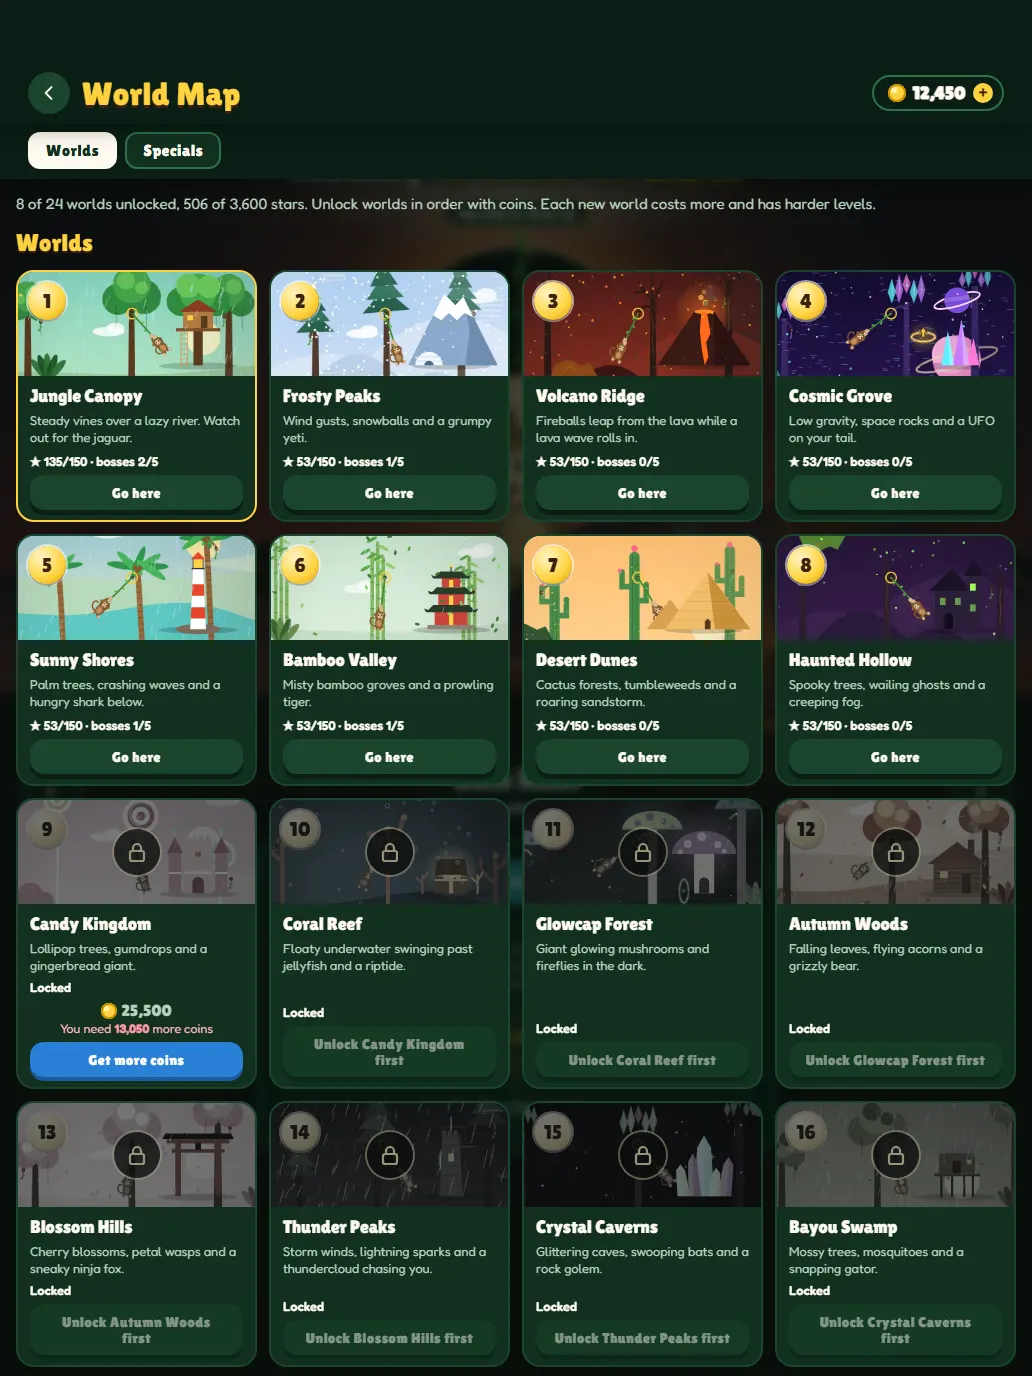
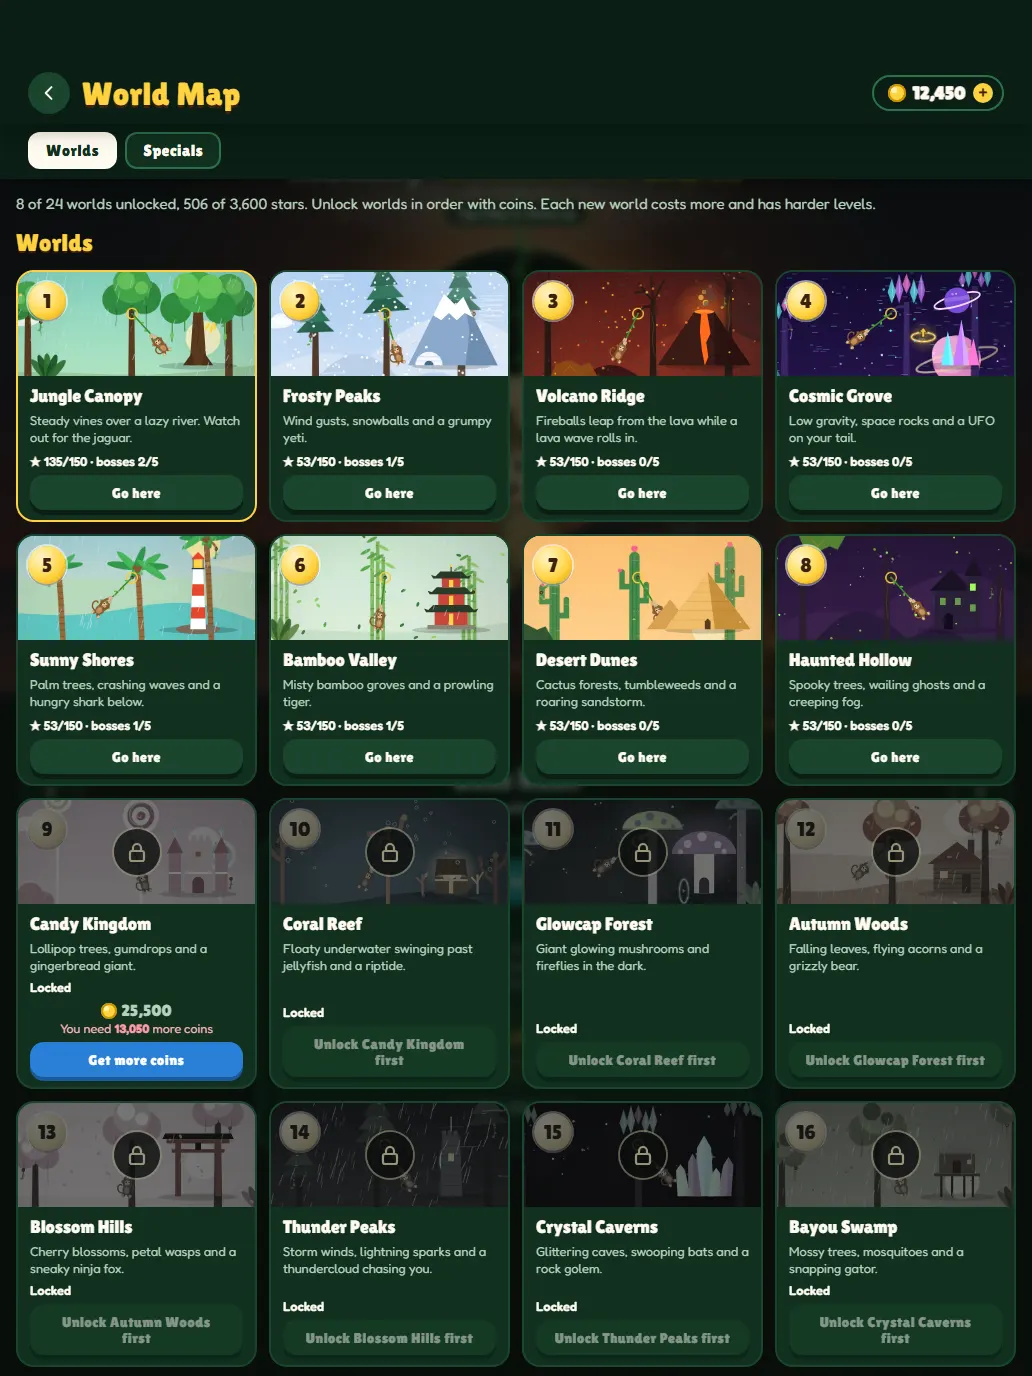
World Map screenshots without the treehouse (game 464)

diff --git a/ru/index.html b/ru/index.html
@@ -126,7 +126,7 @@ if(c==='yes')load();})();</script>
       </div>
 
       <div class="feature reveal" style="--glow:rgba(95,242,255,.28)">
-        <div class="phone-wrap"><div class="tablet tilt-r"><img src="/img/06-worlds-ipad.webp?v=6" alt="24 мира" loading="lazy" width="1032" height="1376"></div></div>
+        <div class="phone-wrap"><div class="tablet tilt-r"><img src="/img/06-worlds-ipad.webp?v=7" alt="24 мира" loading="lazy" width="1032" height="1376"></div></div>
         <div>
           <span class="tag c">24 мира</span>
           <h3>От джунглей до <em>открытого космоса</em></h3>

diff --git a/ja/index.html b/ja/index.html
@@ -126,7 +126,7 @@ if(c==='yes')load();})();</script>
       </div>
 
       <div class="feature reveal" style="--glow:rgba(95,242,255,.28)">
-        <div class="phone-wrap"><div class="tablet tilt-r"><img src="/img/06-worlds-ipad.webp?v=6" alt="24 の世界" loading="lazy" width="1032" height="1376"></div></div>
+        <div class="phone-wrap"><div class="tablet tilt-r"><img src="/img/06-worlds-ipad.webp?v=7" alt="24 の世界" loading="lazy" width="1032" height="1376"></div></div>
         <div>
           <span class="tag c">24 の世界</span>
           <h3>ジャングルから<em>宇宙</em>まで</h3>

diff --git a/sv/index.html b/sv/index.html
@@ -125,7 +125,7 @@ if(c==='yes')load();})();</script>
       </div>
 
       <div class="feature reveal" style="--glow:rgba(95,242,255,.28)">
-        <div class="phone-wrap"><div class="tablet tilt-r"><img src="/img/06-worlds-ipad.webp?v=6" alt="24 världar" loading="lazy" width="1032" height="1376"></div></div>
+        <div class="phone-wrap"><div class="tablet tilt-r"><img src="/img/06-worlds-ipad.webp?v=7" alt="24 världar" loading="lazy" width="1032" height="1376"></div></div>
         <div>
           <span class="tag c">24 världar</span>
           <h3>Från djungeln till <em>yttre rymden</em></h3>

diff --git a/nl/index.html b/nl/index.html
@@ -125,7 +125,7 @@ if(c==='yes')load();})();</script>
       </div>
 
       <div class="feature reveal" style="--glow:rgba(95,242,255,.28)">
-        <div class="phone-wrap"><div class="tablet tilt-r"><img src="/img/06-worlds-ipad.webp?v=6" alt="24 werelden" loading="lazy" width="1032" height="1376"></div></div>
+        <div class="phone-wrap"><div class="tablet tilt-r"><img src="/img/06-worlds-ipad.webp?v=7" alt="24 werelden" loading="lazy" width="1032" height="1376"></div></div>
         <div>
           <span class="tag c">24 werelden</span>
           <h3>Van de jungle tot <em>in de ruimte</em></h3>

diff --git a/ko/index.html b/ko/index.html
@@ -126,7 +126,7 @@ if(c==='yes')load();})();</script>
       </div>
 
       <div class="feature reveal" style="--glow:rgba(95,242,255,.28)">
-        <div class="phone-wrap"><div class="tablet tilt-r"><img src="/img/06-worlds-ipad.webp?v=6" alt="24개 세계" loading="lazy" width="1032" height="1376"></div></div>
+        <div class="phone-wrap"><div class="tablet tilt-r"><img src="/img/06-worlds-ipad.webp?v=7" alt="24개 세계" loading="lazy" width="1032" height="1376"></div></div>
         <div>
           <span class="tag c">24개 세계</span>
           <h3>정글부터 <em>우주</em>까지</h3>

diff --git a/es/index.html b/es/index.html
@@ -125,7 +125,7 @@ if(c==='yes')load();})();</script>
       </div>
 
       <div class="feature reveal" style="--glow:rgba(95,242,255,.28)">
-        <div class="phone-wrap"><div class="tablet tilt-r"><img src="/img/06-worlds-ipad.webp?v=6" alt="24 mundos" loading="lazy" width="1032" height="1376"></div></div>
+        <div class="phone-wrap"><div class="tablet tilt-r"><img src="/img/06-worlds-ipad.webp?v=7" alt="24 mundos" loading="lazy" width="1032" height="1376"></div></div>
         <div>
           <span class="tag c">24 mundos</span>
           <h3>De la selva al <em>espacio exterior</em></h3>

diff --git a/zh-TW/index.html b/zh-TW/index.html
@@ -126,7 +126,7 @@ if(c==='yes')load();})();</script>
       </div>
 
       <div class="feature reveal" style="--glow:rgba(95,242,255,.28)">
-        <div class="phone-wrap"><div class="tablet tilt-r"><img src="/img/06-worlds-ipad.webp?v=6" alt="24 個世界" loading="lazy" width="1032" height="1376"></div></div>
+        <div class="phone-wrap"><div class="tablet tilt-r"><img src="/img/06-worlds-ipad.webp?v=7" alt="24 個世界" loading="lazy" width="1032" height="1376"></div></div>
         <div>
           <span class="tag c">24 個世界</span>
           <h3>從叢林到<em>外太空</em></h3>

diff --git a/zh/index.html b/zh/index.html
@@ -126,7 +126,7 @@ if(c==='yes')load();})();</script>
       </div>
 
       <div class="feature reveal" style="--glow:rgba(95,242,255,.28)">
-        <div class="phone-wrap"><div class="tablet tilt-r"><img src="/img/06-worlds-ipad.webp?v=6" alt="24 个世界" loading="lazy" width="1032" height="1376"></div></div>
+        <div class="phone-wrap"><div class="tablet tilt-r"><img src="/img/06-worlds-ipad.webp?v=7" alt="24 个世界" loading="lazy" width="1032" height="1376"></div></div>
         <div>
           <span class="tag c">24 个世界</span>
           <h3>从丛林到<em>外太空</em></h3>

diff --git a/de/index.html b/de/index.html
@@ -125,7 +125,7 @@ if(c==='yes')load();})();</script>
       </div>
 
       <div class="feature reveal" style="--glow:rgba(95,242,255,.28)">
-        <div class="phone-wrap"><div class="tablet tilt-r"><img src="/img/06-worlds-ipad.webp?v=6" alt="24 Welten" loading="lazy" width="1032" height="1376"></div></div>
+        <div class="phone-wrap"><div class="tablet tilt-r"><img src="/img/06-worlds-ipad.webp?v=7" alt="24 Welten" loading="lazy" width="1032" height="1376"></div></div>
         <div>
           <span class="tag c">24 Welten</span>
           <h3>Vom Dschungel bis <em>ins Weltall</em></h3>

diff --git a/id/index.html b/id/index.html
@@ -125,7 +125,7 @@ if(c==='yes')load();})();</script>
       </div>
 
       <div class="feature reveal" style="--glow:rgba(95,242,255,.28)">
-        <div class="phone-wrap"><div class="tablet tilt-r"><img src="/img/06-worlds-ipad.webp?v=6" alt="24 dunia" loading="lazy" width="1032" height="1376"></div></div>
+        <div class="phone-wrap"><div class="tablet tilt-r"><img src="/img/06-worlds-ipad.webp?v=7" alt="24 dunia" loading="lazy" width="1032" height="1376"></div></div>
         <div>
           <span class="tag c">24 dunia</span>
           <h3>Dari hutan sampai <em>luar angkasa</em></h3>

diff --git a/index.html b/index.html
@@ -125,7 +125,7 @@ if(c==='yes')load();})();</script>
       </div>
 
       <div class="feature reveal" style="--glow:rgba(95,242,255,.28)">
-        <div class="phone-wrap"><div class="tablet tilt-r"><img src="/img/06-worlds-ipad.webp?v=6" alt="24 worlds" loading="lazy" width="1032" height="1376"></div></div>
+        <div class="phone-wrap"><div class="tablet tilt-r"><img src="/img/06-worlds-ipad.webp?v=7" alt="24 worlds" loading="lazy" width="1032" height="1376"></div></div>
         <div>
           <span class="tag c">24 worlds</span>
           <h3>From jungles to <em>outer space</em></h3>

diff --git a/pt/index.html b/pt/index.html
@@ -125,7 +125,7 @@ if(c==='yes')load();})();</script>
       </div>
 
       <div class="feature reveal" style="--glow:rgba(95,242,255,.28)">
-        <div class="phone-wrap"><div class="tablet tilt-r"><img src="/img/06-worlds-ipad.webp?v=6" alt="24 mundos" loading="lazy" width="1032" height="1376"></div></div>
+        <div class="phone-wrap"><div class="tablet tilt-r"><img src="/img/06-worlds-ipad.webp?v=7" alt="24 mundos" loading="lazy" width="1032" height="1376"></div></div>
         <div>
           <span class="tag c">24 mundos</span>
           <h3>Da selva ao <em>espaço sideral</em></h3>
